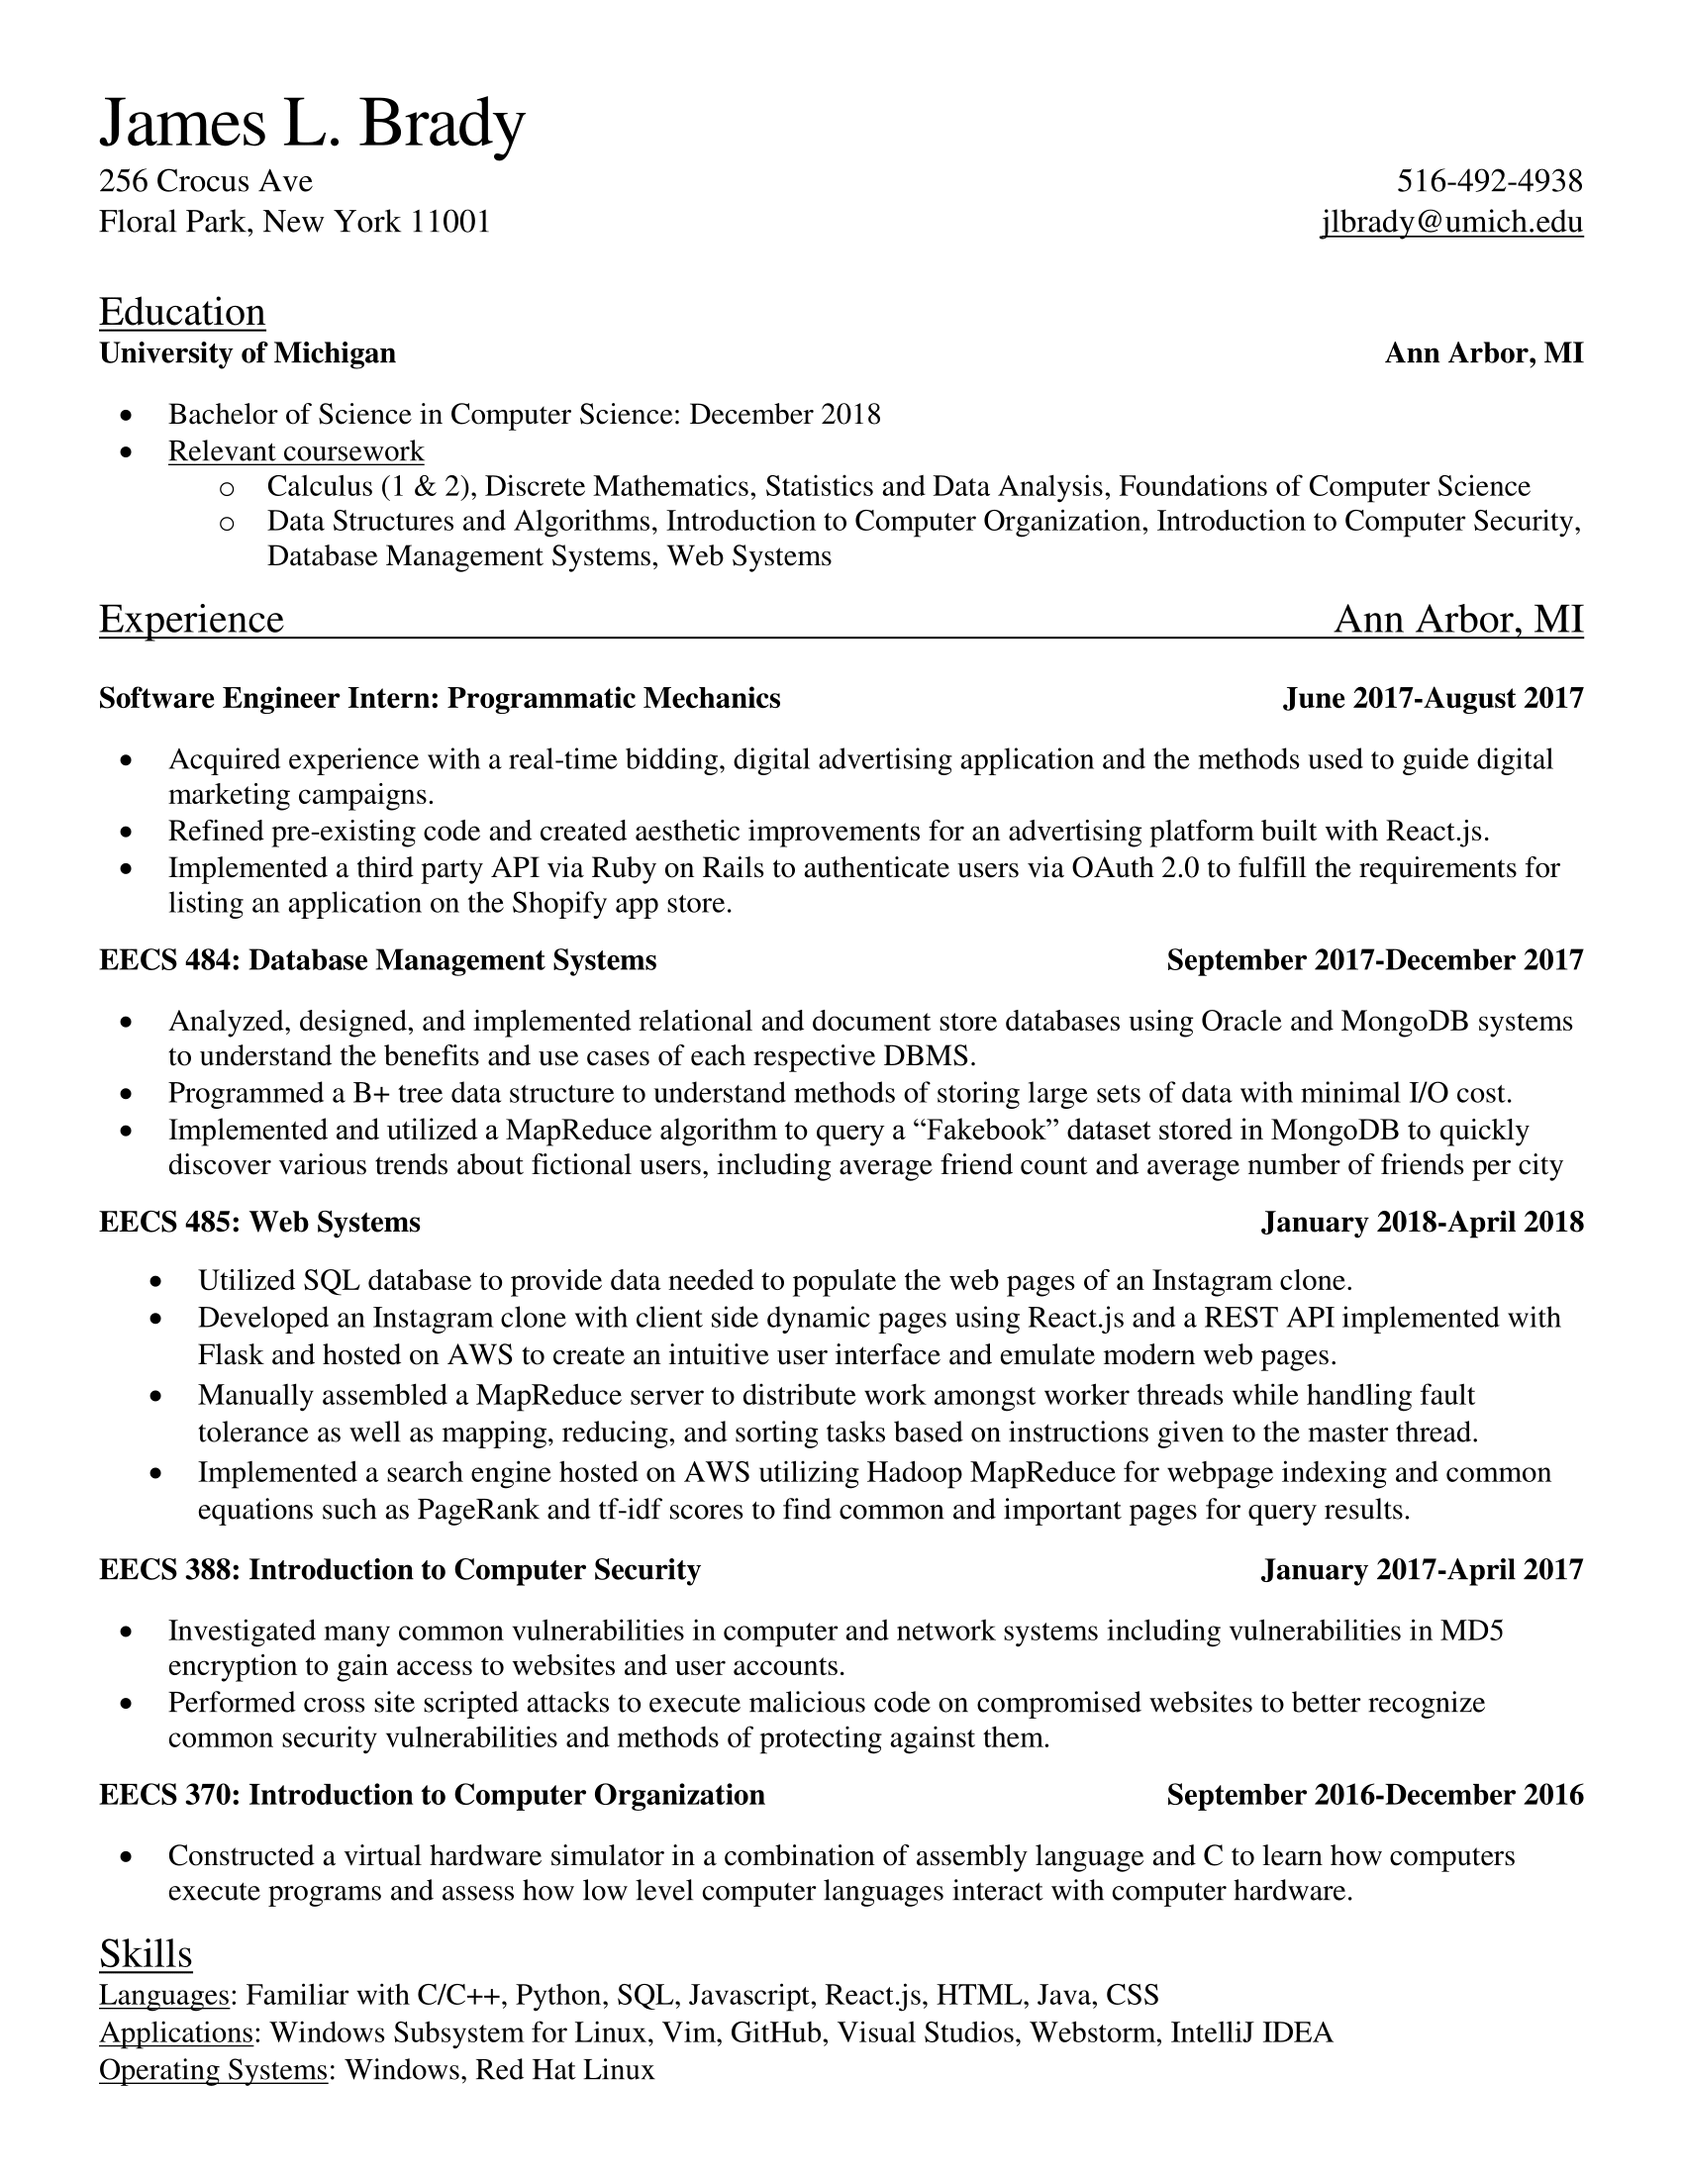
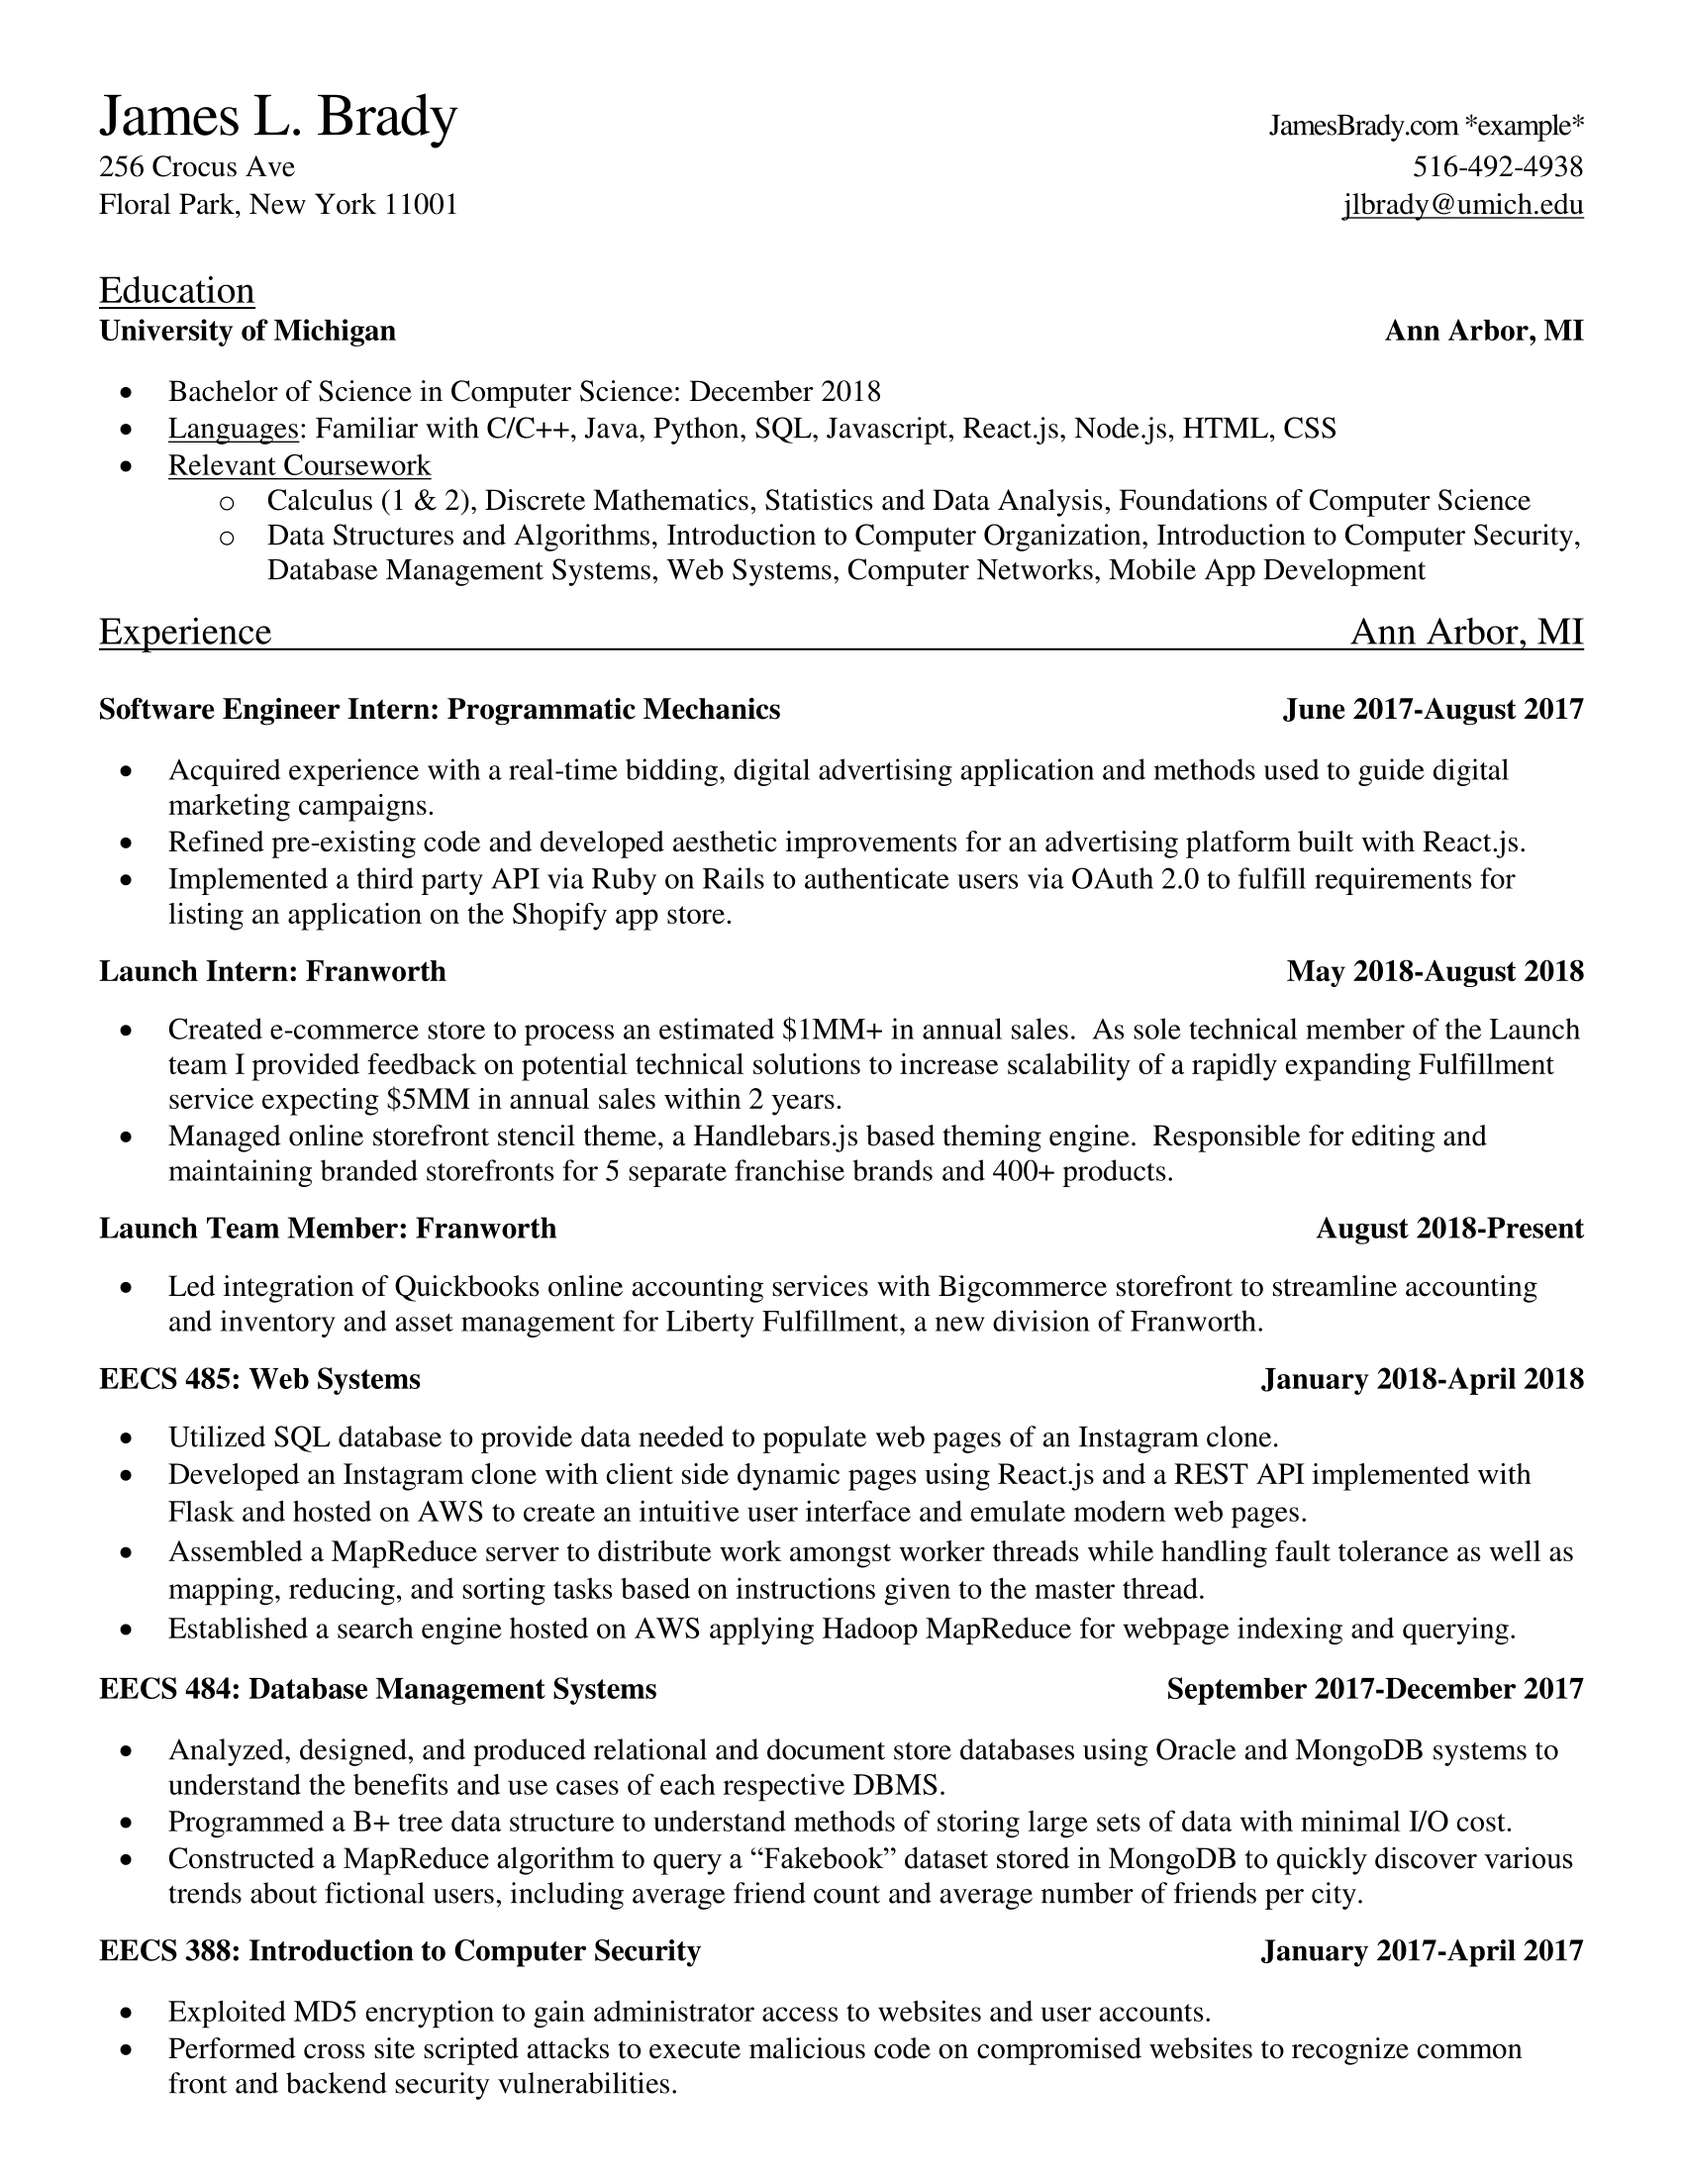
Added custom domain

diff --git a/react-client/src/Components/Projects.jsx b/react-client/src/Components/Projects.jsx
@@ -11,39 +11,33 @@ class Projects extends Component {
           <ul>
             <li>Learning Javascript + React
               <ul>
-                <li></li>
-                <li></li>
+                <li>In preparation for my internship with Programmatic Mechanics I had to learn React.js </li>
+                <li>TODO</li>
                 <li></li>
               </ul>
             </li>
             <li>This website!
               <ul>
-                <li></li>
-                <li></li>
-                <li></li>
-                <li></li>
+                <li>Node.js!</li>
+                <li>Add some style + bold/italics etc.</li>
                 <li></li>
               </ul>
             </li>
           </ul>
           <h2>Internships</h2>
           <ul>
-            <li>Programmatic Mechanics
+            <li>Programmatic Mechanics: Software Engineer Intern
               <ul>
-                <li></li>
-                <li></li>
                 <li></li>
                 <li></li>
                 <li></li>
               </ul>
             </li>
-            <li>Franworth
+            <li>Franworth: LAUNCH Team Member
               <ul>
-                <li></li>
-                <li></li>
-                <li></li>
-                <li></li>
-                <li></li>
+                <li>LAUNCH is comprised of a dedicated group of student-leaders who desire the hands on involvement, responsibility, and the opportunity to work alongside some of the brightest minds in the business world, while also acting as helping agents to the hundreds of individuals and families that Franworth touches.</li>
+                <li>LAUNCH allows you to work alongside high level executives and provides you with INSIGHT into the inner workings of FRANCHISING and the process of building a BRAND.</li>
+                <li>Throughout the internship I led the effort to establish an e-commerce platform from scratch for a new division of our company, called Liberty Fulfillment.  Our team included my superior, who handled most of the physical aspects of the project, such as acquiring real estate for the warehouse and moving inventory from our Dallas location to our Ann Arbor location, and 3 interns, myself included.  I was tasked with handling the technology side of the project, which included choosing an e-commerce platform provider, an attractive prebuilt theme, and any app integrations that I felt were necessary to provide a seamless user experience for our clients.</li>
               </ul>
             </li>
           </ul>
@@ -53,7 +47,3 @@ class Projects extends Component {
   }
 }
 export default Projects;
-// School
-// Teaching myself js + React
-// This site
-// Shopify/BC
